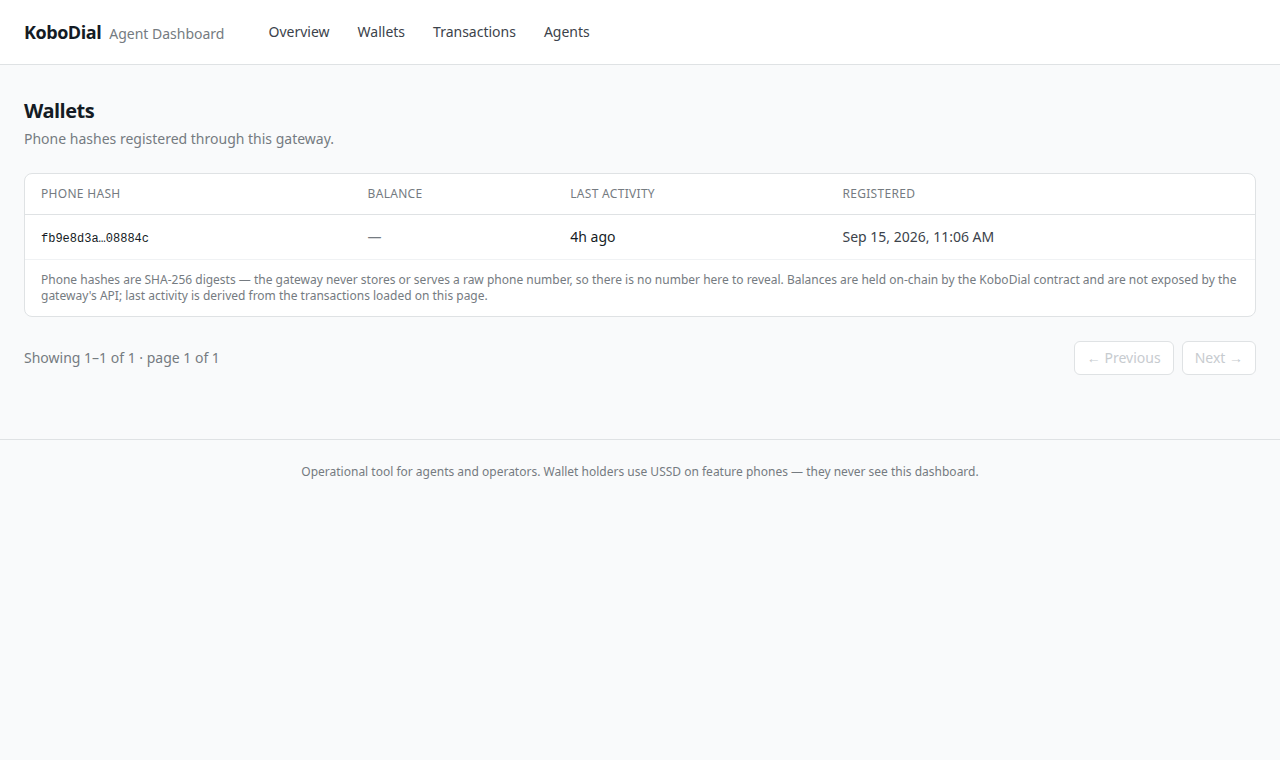
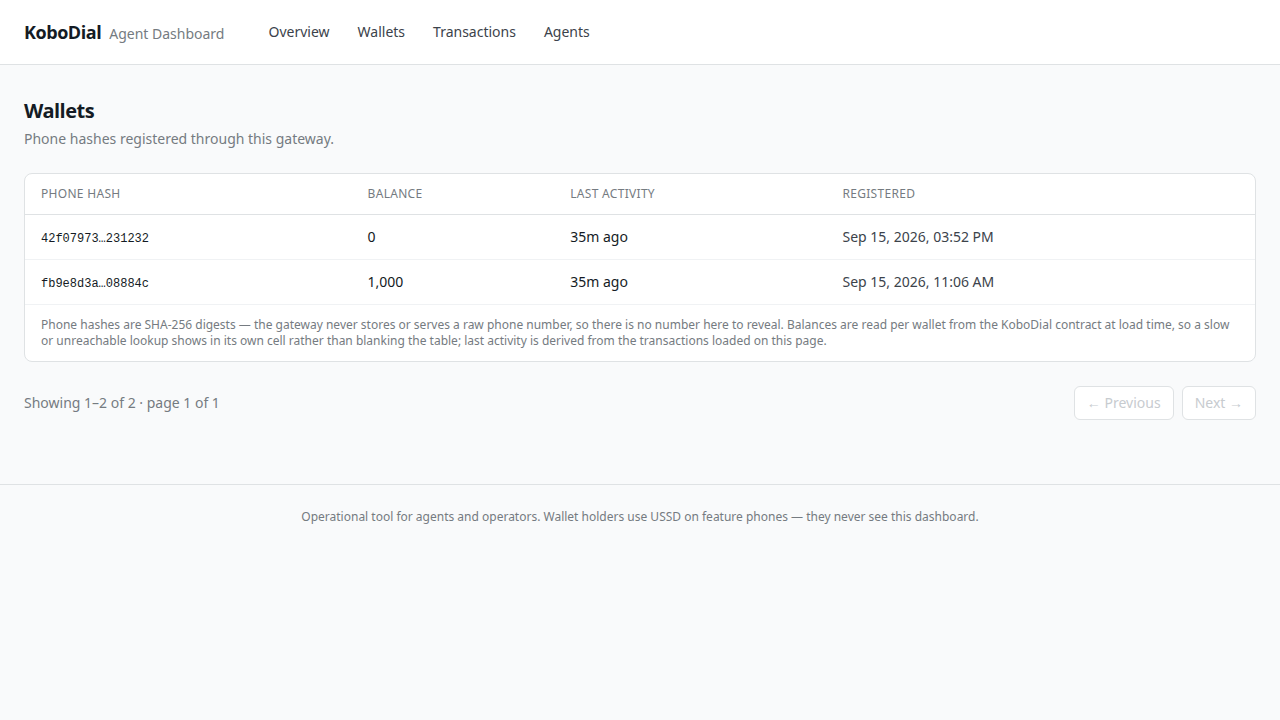
feat: show wallet balances read from the contract (#9)
The balance column rendered an em dash with a footnote explaining the
gateway didn't expose balances. It does now (kobodial-gateway#1:
GET /wallets/:phoneHash/balance), so this shows the real figure.

Balances stay strings end to end — they are i128 on-chain and would lose
precision as JS numbers; formatAmount already groups digits without
parsing. Each balance is a separate round trip to the chain, so a page's
worth are fetched with bounded concurrency (8 at a time) rather than 50
serial calls or 50 parallel sockets. When the gateway gains a batch read
this collapses to one call.

fetchBalance resolves rather than throws, so a single failed lookup shows
in its own cell — 'unavailable', or 'not on-chain' for a wallet the
gateway indexed but the contract has no balance for — instead of blanking
the table. The whole-page unavailable state still applies when the wallet
list itself can't be fetched.

README honesty section drops to the one point that's still true (phone
hashes are digests) and the balance screenshot is recaptured.

Closes #1.

diff --git a/components/WalletTable.tsx b/components/WalletTable.tsx
@@ -1,5 +1,6 @@
 import type { Transaction, Wallet } from "@/lib/types";
-import { formatRelative, formatTimestamp, truncateHash } from "@/lib/format";
+import type { BalanceResult } from "@/lib/gateway";
+import { formatAmount, formatRelative, formatTimestamp, truncateHash } from "@/lib/format";
 import { EmptyState } from "./EmptyState";
 
 /**
@@ -23,12 +24,47 @@ function lastActivityByWallet(transactions: Transaction[]): Map<string, string> 
   return latest;
 }
 
+/**
+ * One balance cell. The balance is read per wallet from the chain, so each
+ * has three possible states — a figure, "not found" (the gateway has the
+ * wallet indexed but the contract does not know it), or a lookup that
+ * failed — and each shows in place without affecting the other rows.
+ */
+function BalanceCell({ result }: { result?: BalanceResult }) {
+  if (!result) {
+    return (
+      <span className="text-ink-400" title="Balance not loaded">
+        —
+      </span>
+    );
+  }
+  if ("balance" in result) {
+    return <span>{formatAmount(result.balance)}</span>;
+  }
+  const notFound = result.error === "WalletNotFound";
+  return (
+    <span
+      className="text-ink-400 text-xs"
+      title={
+        notFound
+          ? "Indexed by the gateway, but the contract has no balance for it"
+          : `Balance lookup failed: ${result.error}`
+      }
+    >
+      {notFound ? "not on-chain" : "unavailable"}
+    </span>
+  );
+}
+
 export function WalletTable({
   wallets,
   transactions = [],
+  balances,
 }: {
   wallets: Wallet[];
   transactions?: Transaction[];
+  /** Per-wallet balance lookups, keyed by phone hash. Omitted when balances weren't fetched. */
+  balances?: Map<string, BalanceResult>;
 }) {
   if (wallets.length === 0) {
     return (
@@ -70,8 +106,8 @@ export function WalletTable({
                     {truncateHash(wallet.phoneHash)}
                   </span>
                 </td>
-                <td className="text-ink-500 px-4 py-3">
-                  <span title="Balances live on-chain; the gateway does not expose them">—</span>
+                <td className="tabular px-4 py-3">
+                  <BalanceCell result={balances?.get(wallet.phoneHash)} />
                 </td>
                 <td className="tabular px-4 py-3">
                   {active ? (
@@ -91,9 +127,9 @@ export function WalletTable({
 
       <p className="border-ink-100 text-ink-500 border-t px-4 py-3 text-xs">
         Phone hashes are SHA-256 digests — the gateway never stores or serves a raw phone number, so
-        there is no number here to reveal. Balances are held on-chain by the KoboDial contract and
-        are not exposed by the gateway&apos;s API; last activity is derived from the transactions
-        loaded on this page.
+        there is no number here to reveal. Balances are read per wallet from the KoboDial contract
+        at load time, so a slow or unreachable lookup shows in its own cell rather than blanking the
+        table; last activity is derived from the transactions loaded on this page.
       </p>
     </div>
   );

diff --git a/lib/gateway.ts b/lib/gateway.ts
@@ -120,6 +120,68 @@ export async function fetchWallets(page: Page = {}): Promise<PagedResult<Wallet>
   return paged(body.wallets, body, page);
 }
 
+/**
+ * One wallet's balance lookup. Resolves for every outcome the table must
+ * render differently — a figure, or a reason there isn't one — rather than
+ * throwing, so a single failed lookup shows in its own cell instead of
+ * blanking the whole page.
+ *
+ * The balance stays a string end to end: it is an i128 on-chain and would
+ * lose precision as a JS number.
+ */
+export type BalanceResult =
+  { phoneHash: string; balance: string } | { phoneHash: string; error: string };
+
+export async function fetchBalance(phoneHash: string): Promise<BalanceResult> {
+  let response: Response;
+  try {
+    response = await fetch(`${GATEWAY_URL}/wallets/${phoneHash}/balance`, {
+      cache: "no-store",
+      signal: AbortSignal.timeout(REQUEST_TIMEOUT_MS),
+      headers: { accept: "application/json" },
+    });
+  } catch {
+    return { phoneHash, error: "unreachable" };
+  }
+  let body: unknown;
+  try {
+    body = await response.json();
+  } catch {
+    body = {};
+  }
+  if (response.ok) {
+    return { phoneHash, balance: String((body as { balance: string }).balance) };
+  }
+  const err = (body as { error?: string }).error;
+  return { phoneHash, error: err ?? `HTTP ${response.status}` };
+}
+
+/**
+ * Balances for a page of wallets, fetched with bounded concurrency.
+ *
+ * A page can hold up to 200 wallets and each balance is its own round trip
+ * to the chain. Done serially the page would wait on 200 sequential calls;
+ * done all at once it would open 200 sockets and hammer the RPC. A small
+ * fixed width is the middle path. When the gateway gains a batch endpoint
+ * this becomes a single call — tracked in the gateway's issues.
+ */
+export async function fetchBalances(
+  phoneHashes: string[],
+  concurrency = 8,
+): Promise<Map<string, BalanceResult>> {
+  const results = new Map<string, BalanceResult>();
+  let cursor = 0;
+  async function worker(): Promise<void> {
+    while (cursor < phoneHashes.length) {
+      const hash = phoneHashes[cursor++]!;
+      results.set(hash, await fetchBalance(hash));
+    }
+  }
+  const width = Math.min(concurrency, phoneHashes.length);
+  await Promise.all(Array.from({ length: width }, () => worker()));
+  return results;
+}
+
 export async function fetchAgents(page: Page = {}): Promise<PagedResult<Agent>> {
   const body = await getJson<{ agents: Agent[] } & Partial<PagedResult<Agent>>>(
     `/agents${query({ limit: page.limit, offset: page.offset })}`,

diff --git a/app/wallets/page.tsx b/app/wallets/page.tsx
@@ -1,4 +1,10 @@
-import { fetchTransactions, fetchWallets, GatewayUnavailableError } from "@/lib/gateway";
+import {
+  fetchBalances,
+  fetchTransactions,
+  fetchWallets,
+  GatewayUnavailableError,
+  type BalanceResult,
+} from "@/lib/gateway";
 import type { Transaction, Wallet } from "@/lib/types";
 import { GatewayUnavailable } from "@/components/GatewayUnavailable";
 import { Pagination } from "@/components/Pagination";
@@ -24,6 +30,7 @@ export default async function WalletsPage({
 
   let wallets: Wallet[] = [];
   let transactions: Transaction[] = [];
+  let balances = new Map<string, BalanceResult>();
   let total = 0;
   let failure: string | undefined;
 
@@ -37,6 +44,10 @@ export default async function WalletsPage({
     wallets = walletPage.rows;
     total = walletPage.total;
     transactions = transactionPage.rows;
+    // Balances are a per-wallet read against the chain, fetched only for
+    // the wallets actually on this page. Failures are captured per wallet
+    // rather than thrown, so one bad lookup does not blank the table.
+    balances = await fetchBalances(wallets.map((w) => w.phoneHash));
   } catch (err) {
     failure = err instanceof GatewayUnavailableError ? err.message : String(err);
   }
@@ -52,7 +63,7 @@ export default async function WalletsPage({
         <GatewayUnavailable detail={failure} />
       ) : (
         <>
-          <WalletTable wallets={wallets} transactions={transactions} />
+          <WalletTable wallets={wallets} transactions={transactions} balances={balances} />
           <Pagination
             basePath="/wallets"
             offset={offset}

diff --git a/README.md b/README.md
@@ -52,8 +52,8 @@ approving.
 **Overview** — wallet count, transaction volume, success/failure counts,
 recent activity, and a live gateway health badge.
 
-**Wallets** — phone hashes registered through the gateway, with derived
-last-activity.
+**Wallets** — phone hashes registered through the gateway, each with its
+on-chain balance and derived last-activity.
 
 ![Wallets](docs/screenshots/wallets.png)
 
@@ -68,21 +68,19 @@ the customer simply mistyped.
 
 ![Agents](docs/screenshots/agents.png)
 
-## Two things the UI is honest about
-
-**Balances aren't shown.** The wallets table renders an em dash, not a
-number. Balances live on-chain in the contract, and the gateway
-deliberately doesn't cache them — its wallets table is only an index of
-which phone hashes registered through it. Showing a balance would mean
-adding an endpoint to the gateway that reads the contract. The table
-says so rather than inventing a figure.
+## One thing the UI is honest about
 
 **Phone hashes are digests, not masked numbers.** The gateway never
 stores a raw phone number — only a SHA-256 hash. This holds for agents
 too: registering one sends the number to the gateway, which stores its
-hash, so the Agents table shows a truncated digest and no callable
-number. Truncation is for legibility; there is no hidden number behind
-it.
+hash, so the tables show a truncated digest and no callable number.
+Truncation is for legibility; there is no hidden number behind it.
+
+Balances are read per wallet from the contract at load time. Each lookup
+is its own round trip, so they are fetched with bounded concurrency and a
+failed lookup shows in its own cell — "unavailable", or "not on-chain"
+for a wallet the gateway indexed but the contract has no balance for —
+rather than blanking the table.
 
 ## Setup
 
@@ -168,9 +166,8 @@ is readable rather than lost:
 
 Resolved since the first release, once the gateway grew the endpoints they
 needed: real agent storage (#2 → gateway#4), and server-side filtering and
-paging (#3 → gateway#2, gateway#3). The one gap the UI still admits to is
-[#1 Show balances](https://github.com/kobodial/kobodial-dashboard/issues/1),
-now unblocked by the gateway's balance endpoint.
+paging (#3 → gateway#2, gateway#3). Balances (#1 → gateway#1) are shown too, read per wallet from the
+contract.
 
 ## License
 
